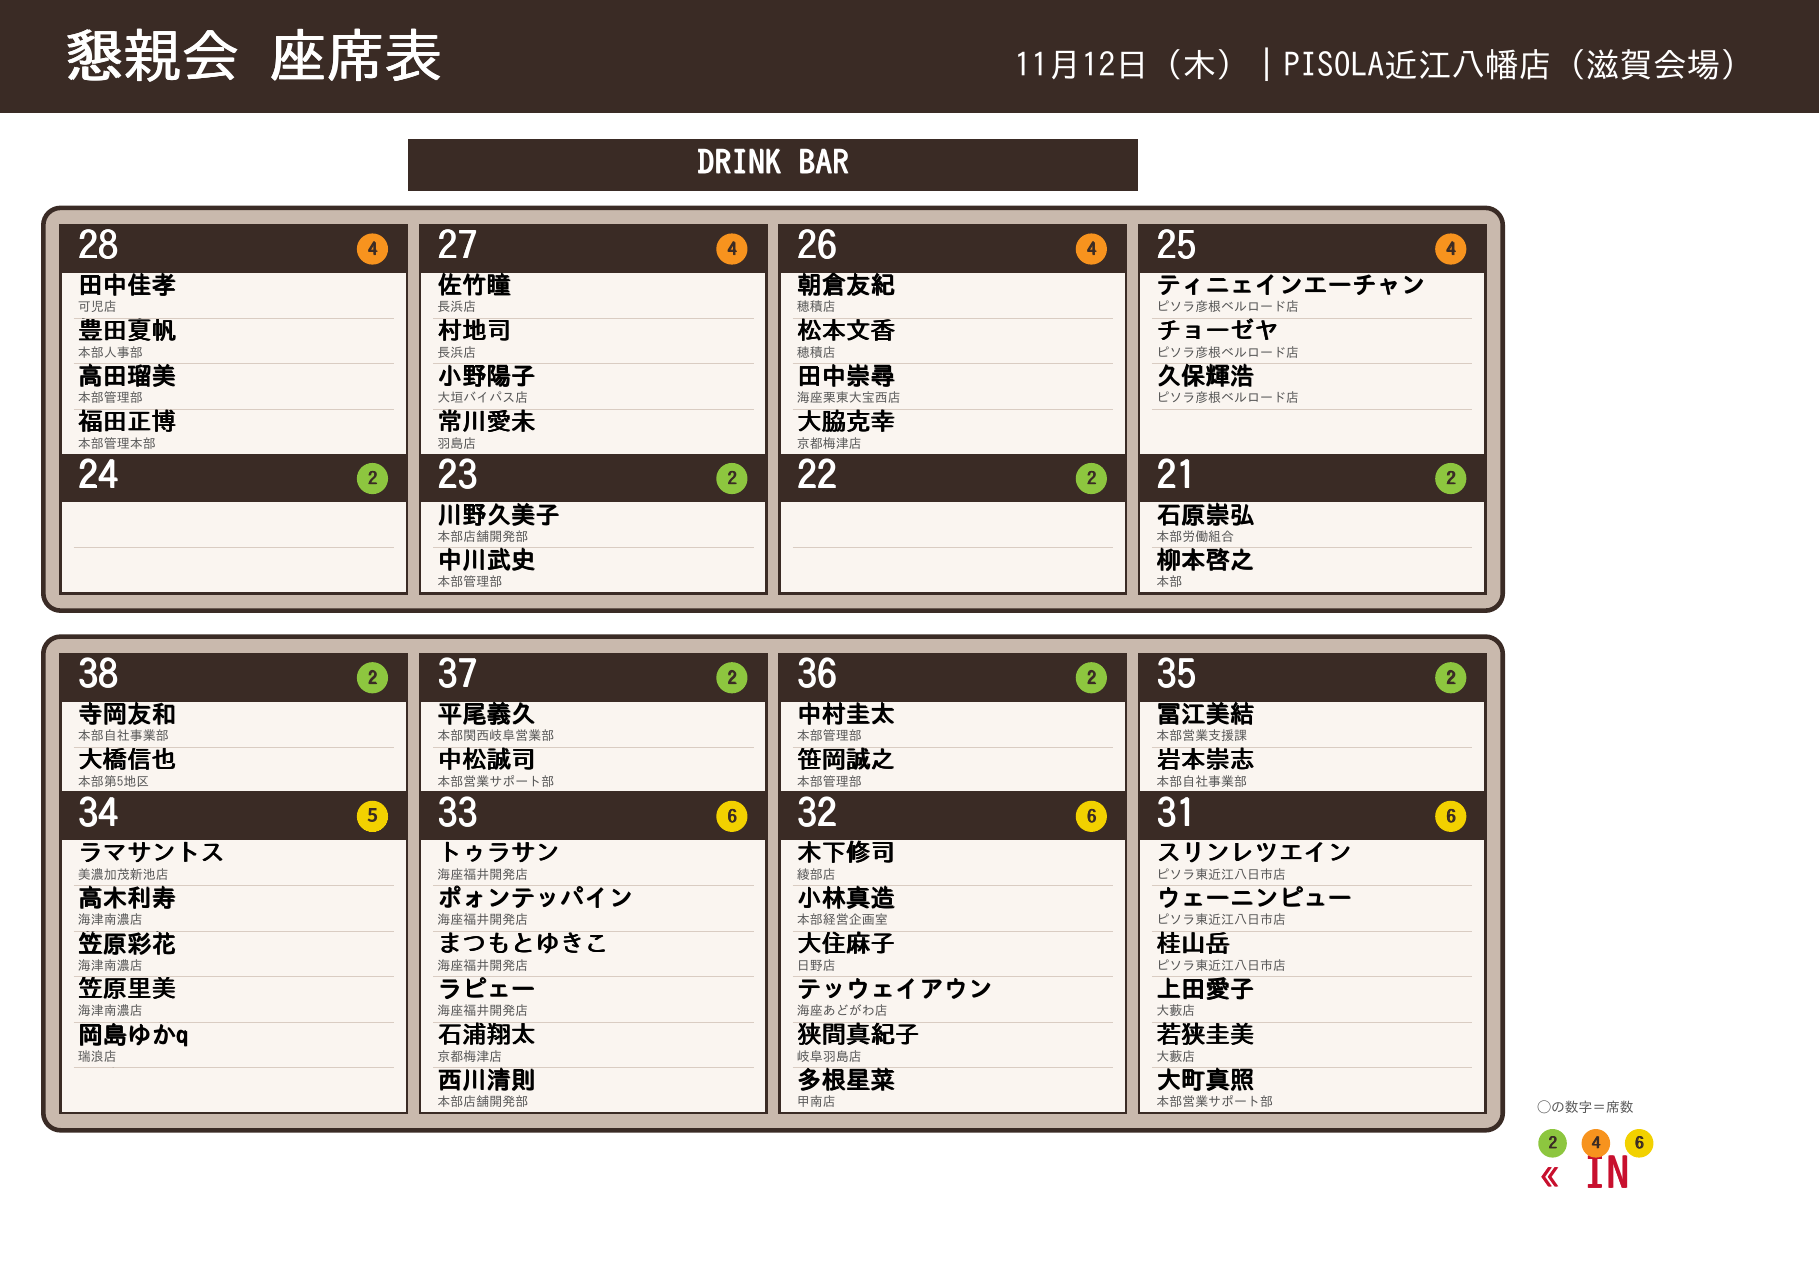
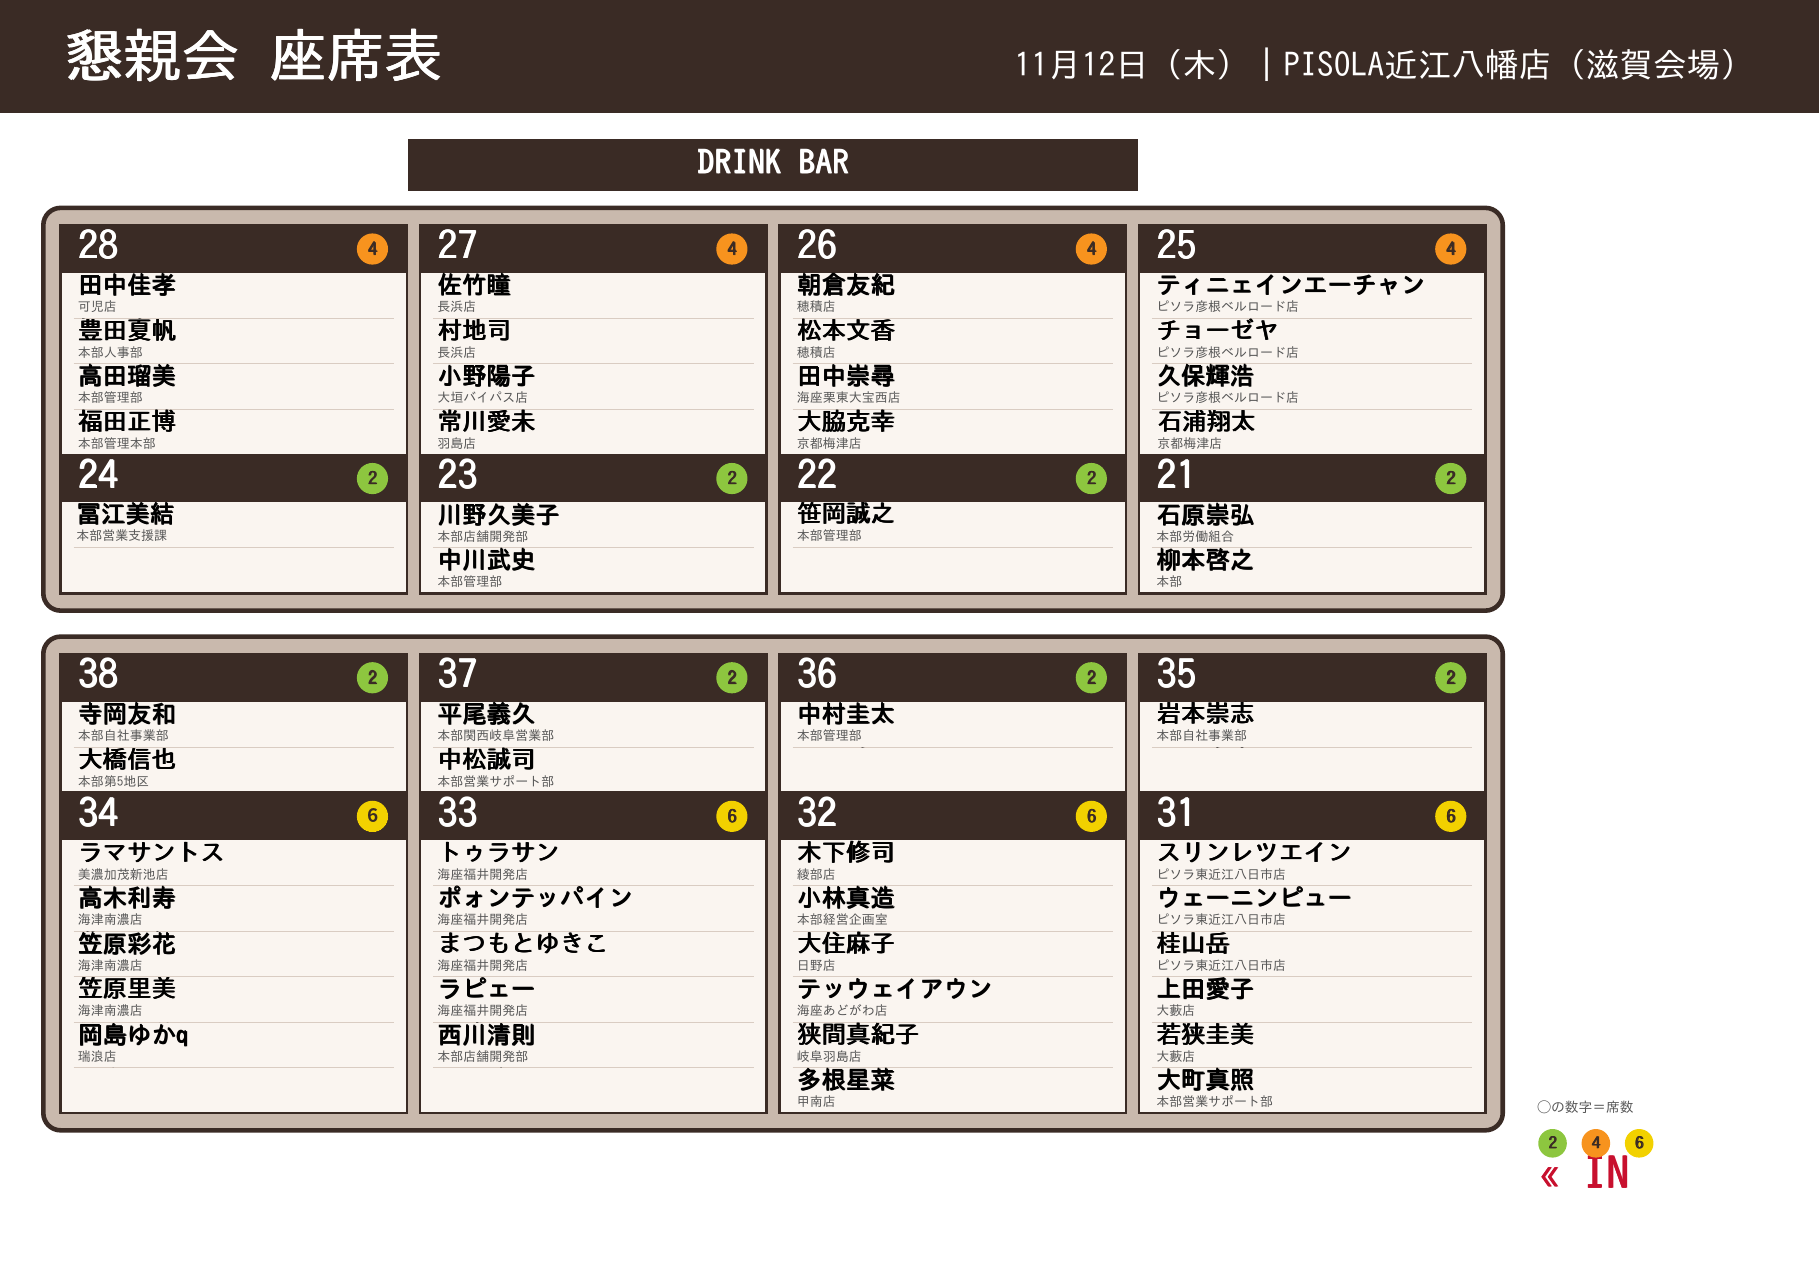
11/12 東近江懇親会: 笹岡→卓22、冨江→卓24、石浦→卓25（案内ページ・座席表画像）
Claude-Session: https://claude.ai/code/session_016S7BseK3NjyrP4teWX7u2A

diff --git a/event/higashiomi/index.html b/event/higashiomi/index.html
@@ -146,7 +146,7 @@ footer{text-align:center;font-size:13px;color:#666;padding:20px 12px 40px}
 <script>
 var SURVEY_URL="https://forms.gle/e9n7PZBZQ5QafZvP6";   // ←アンケート確定後にここへURLを入れる
 var TEAM=[{"label": "T1", "court": "", "members": ["岡島由加里（瑞浪）", "村地司（長浜）", "上田愛子（大藪）"], "games": ["1回目　13:30〜13:48　コート1　対 T16", "2回目　13:51〜14:09　コート1　対 T15", "3回目　14:12〜14:30　コート1　対 T14"]}, {"label": "T2", "court": "", "members": ["寺岡友和（自社事業部）", "ウェーニンピュー（ピソラ東近江八日市）", "スリンレツエイン（ピソラ東近江八日市）"], "games": ["1回目　13:30〜13:48　コート2　対 T15", "2回目　13:51〜14:09　コート3　対 T13", "3回目　14:12〜14:30　コート4　対 T11"]}, {"label": "T3", "court": "", "members": ["中川武史（管理部）", "朝倉友紀（穂積）", "高木利寿（海津南濃）"], "games": ["1回目　13:30〜13:48　コート3　対 T14", "2回目　13:51〜14:09　コート4　対 T12", "3回目　14:12〜14:30　コート5　対 T10"]}, {"label": "T4", "court": "", "members": ["冨江美結（営業支援課）", "笠原彩花（海津南濃）", "はざまゆな（垂井）"], "games": ["1回目　13:30〜13:48　コート4　対 T13", "2回目　13:51〜14:09　コート5　対 T11", "3回目　14:12〜14:30　コート6　対 T9"]}, {"label": "T5", "court": "", "members": ["西川清則（店舗開発部）", "チョーゼヤ（ピソラ彦根ベルロード）", "ティニエインエーチャン（ピソラ彦根ベルロード）"], "games": ["1回目　13:30〜13:48　コート5　対 T12", "2回目　13:51〜14:09　コート6　対 T10", "3回目　14:12〜14:30　コート7　対 T8"]}, {"label": "T6", "court": "", "members": ["ラマサントス（美濃加茂新池）", "木下修司（綾部）", "大町真照（営業サポート部）"], "games": ["1回目　13:30〜13:48　コート6　対 T11", "2回目　13:51〜14:09　コート7　対 T9", "3回目　14:12〜14:30　コート8　対 T7"]}, {"label": "T7", "court": "", "members": ["ポォンテッパイン（海座福井開発）", "田中崇尋（海座栗東大宝西）", "福田正博（管理本部）"], "games": ["1回目　13:30〜13:48　コート7　対 T10", "2回目　13:51〜14:09　コート8　対 T8", "3回目　14:12〜14:30　コート8　対 T6"]}, {"label": "T8", "court": "", "members": ["佐竹瞳（長浜）", "笠原里美（海津南濃）", "小林真造（経営企画室）"], "games": ["1回目　13:30〜13:48　コート8　対 T9", "2回目　13:51〜14:09　コート8　対 T7", "3回目　14:12〜14:30　コート7　対 T5"]}, {"label": "T9", "court": "", "members": ["大住麻子（日野）", "まつもとゆきこ（海座福井開発）", "高田瑠美（管理部）"], "games": ["1回目　13:30〜13:48　コート8　対 T8", "2回目　13:51〜14:09　コート7　対 T6", "3回目　14:12〜14:30　コート6　対 T4"]}, {"label": "T10", "court": "", "members": ["石浦翔太（京都梅津）", "ラピェー（海座福井開発）", "中松誠司（営業サポート部）"], "games": ["1回目　13:30〜13:48　コート7　対 T7", "2回目　13:51〜14:09　コート6　対 T5", "3回目　14:12〜14:30　コート5　対 T3"]}, {"label": "T11", "court": "", "members": ["松本文香（穂積）", "トゥラサン（海座福井開発）", "平尾義久（関西岐阜営業部）"], "games": ["1回目　13:30〜13:48　コート6　対 T6", "2回目　13:51〜14:09　コート5　対 T4", "3回目　14:12〜14:30　コート4　対 T2"]}, {"label": "T12", "court": "", "members": ["テッウェイアウン（海座あどがわ）", "小野陽子（大垣バイパス）", "柳本啓之（本部）"], "games": ["1回目　13:30〜13:48　コート5　対 T5", "2回目　13:51〜14:09　コート4　対 T3", "3回目　14:12〜14:30　コート3　対 T16"]}, {"label": "T13", "court": "", "members": ["常川愛未（羽島）", "久保龍輝（奈良鴻ノ池）", "川野久美子（店舗開発部）"], "games": ["1回目　13:30〜13:48　コート4　対 T4", "2回目　13:51〜14:09　コート3　対 T2", "3回目　14:12〜14:30　コート2　対 T15"]}, {"label": "T14", "court": "", "members": ["大脇克幸（京都梅津）", "多根星菜（甲南）", "中村圭太（管理部）"], "games": ["1回目　13:30〜13:48　コート3　対 T3", "2回目　13:51〜14:09　コート2　対 T16", "3回目　14:12〜14:30　コート1　対 T1"]}, {"label": "T15", "court": "", "members": ["豊田夏帆（人事部）", "木村圭吾（八日市）", "桂山岳（ピソラ東近江八日市）"], "games": ["1回目　13:30〜13:48　コート2　対 T2", "2回目　13:51〜14:09　コート1　対 T1", "3回目　14:12〜14:30　コート2　対 T13"]}, {"label": "T16", "court": "", "members": ["久保輝浩（ピソラ彦根ベルロード）", "岩本崇志（自社事業部）", "田中佳孝（可児）"], "games": ["1回目　13:30〜13:48　コート1　対 T1", "2回目　13:51〜14:09　コート2　対 T14", "3回目　14:12〜14:30　コート3　対 T12"]}];
-var SEAT={"28": {"seats": 4, "names": ["田中佳孝", "豊田夏帆", "高田瑠美", "福田正博"]}, "27": {"seats": 4, "names": ["佐竹瞳", "村地司", "小野陽子", "常川愛未"]}, "26": {"seats": 4, "names": ["朝倉友紀", "松本文香", "田中崇尋", "大脇克幸"]}, "25": {"seats": 4, "names": ["ティニェインエーチャン", "チョーゼヤ", "久保輝浩"]}, "24": {"seats": 2, "names": []}, "23": {"seats": 2, "names": ["川野久美子", "中川武史"]}, "22": {"seats": 2, "names": []}, "21": {"seats": 2, "names": ["石原崇弘", "柳本啓之"]}, "38": {"seats": 2, "names": ["寺岡友和", "大橋信也"]}, "37": {"seats": 2, "names": ["平尾義久", "中松誠司"]}, "36": {"seats": 2, "names": ["中村圭太", "笹岡誠之"]}, "35": {"seats": 2, "names": ["冨江美結", "岩本崇志"]}, "34": {"seats": 6, "names": ["ラマサントス", "高木利寿", "笠原彩花", "笠原里美", "岡島ゆかq"]}, "33": {"seats": 6, "names": ["トゥラサン", "ポォンテッパイン", "まつもとゆきこ", "ラピェー", "石浦翔太", "西川清則"]}, "32": {"seats": 6, "names": ["木下修司", "小林真造", "大住麻子", "テッウェイアウン", "狭間真紀子", "多根星菜"]}, "31": {"seats": 6, "names": ["スリンレツエイン", "ウェーニンピュー", "桂山岳", "上田愛子", "若狭圭美", "大町真照"]}};
+var SEAT={"28": {"seats": 4, "names": ["田中佳孝", "豊田夏帆", "高田瑠美", "福田正博"]}, "27": {"seats": 4, "names": ["佐竹瞳", "村地司", "小野陽子", "常川愛未"]}, "26": {"seats": 4, "names": ["朝倉友紀", "松本文香", "田中崇尋", "大脇克幸"]}, "25": {"seats": 4, "names": ["ティニェインエーチャン", "チョーゼヤ", "久保輝浩", "石浦翔太"]}, "24": {"seats": 2, "names": ["冨江美結"]}, "23": {"seats": 2, "names": ["川野久美子", "中川武史"]}, "22": {"seats": 2, "names": ["笹岡誠之"]}, "21": {"seats": 2, "names": ["石原崇弘", "柳本啓之"]}, "38": {"seats": 2, "names": ["寺岡友和", "大橋信也"]}, "37": {"seats": 2, "names": ["平尾義久", "中松誠司"]}, "36": {"seats": 2, "names": ["中村圭太"]}, "35": {"seats": 2, "names": ["岩本崇志"]}, "34": {"seats": 6, "names": ["ラマサントス", "高木利寿", "笠原彩花", "笠原里美", "岡島ゆかq"]}, "33": {"seats": 6, "names": ["トゥラサン", "ポォンテッパイン", "まつもとゆきこ", "ラピェー", "西川清則"]}, "32": {"seats": 6, "names": ["木下修司", "小林真造", "大住麻子", "テッウェイアウン", "狭間真紀子", "多根星菜"]}, "31": {"seats": 6, "names": ["スリンレツエイン", "ウェーニンピュー", "桂山岳", "上田愛子", "若狭圭美", "大町真照"]}};
 (function(){
  var a=document.getElementById('sv');
  if(SURVEY_URL){a.href=SURVEY_URL;a.className='survey';a.textContent='📝 アンケートに答える（11/15まで）';}
